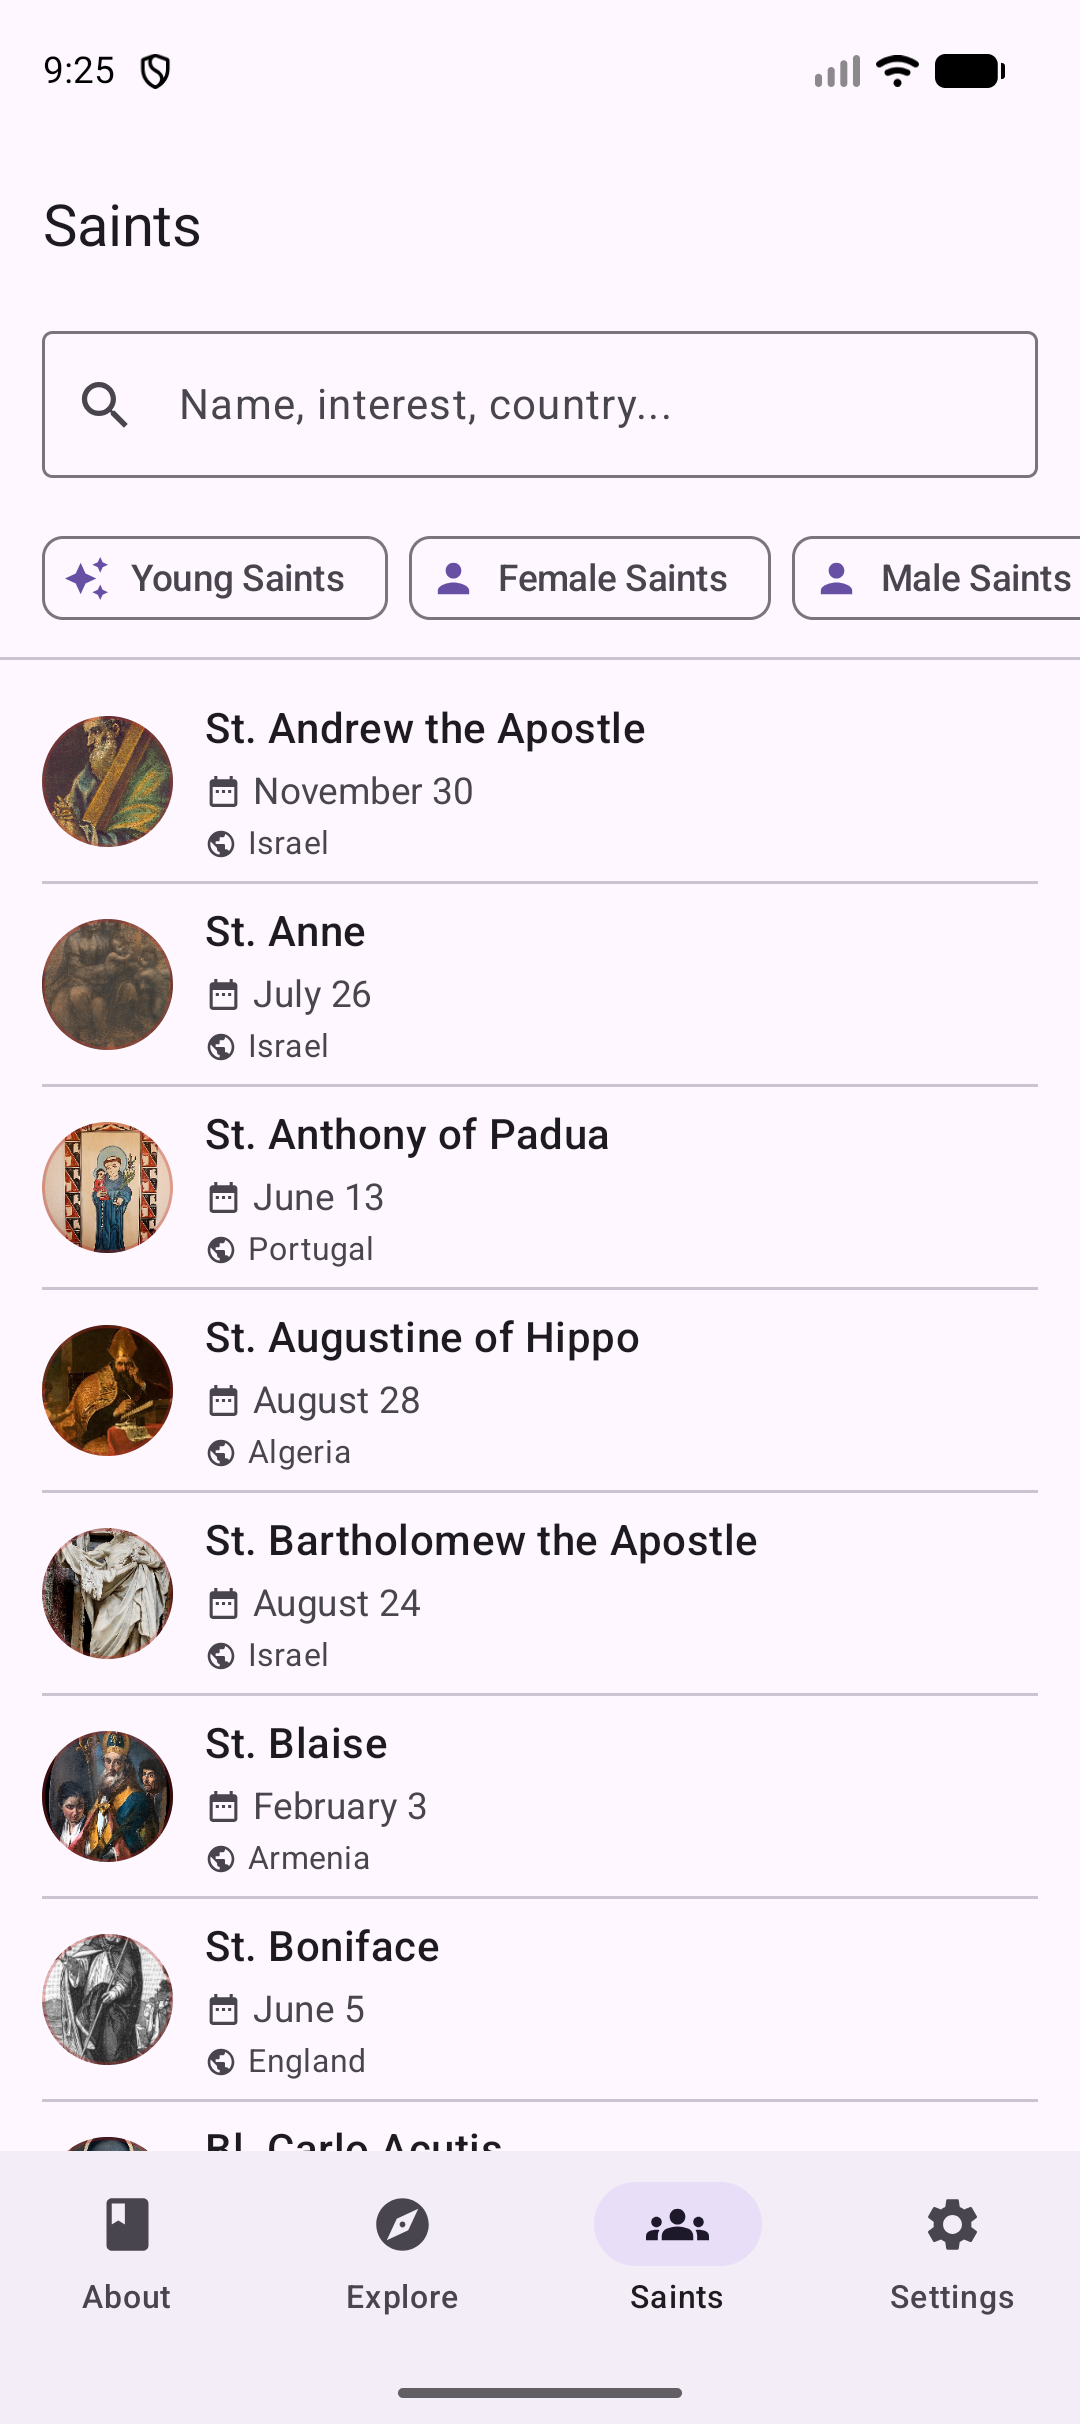
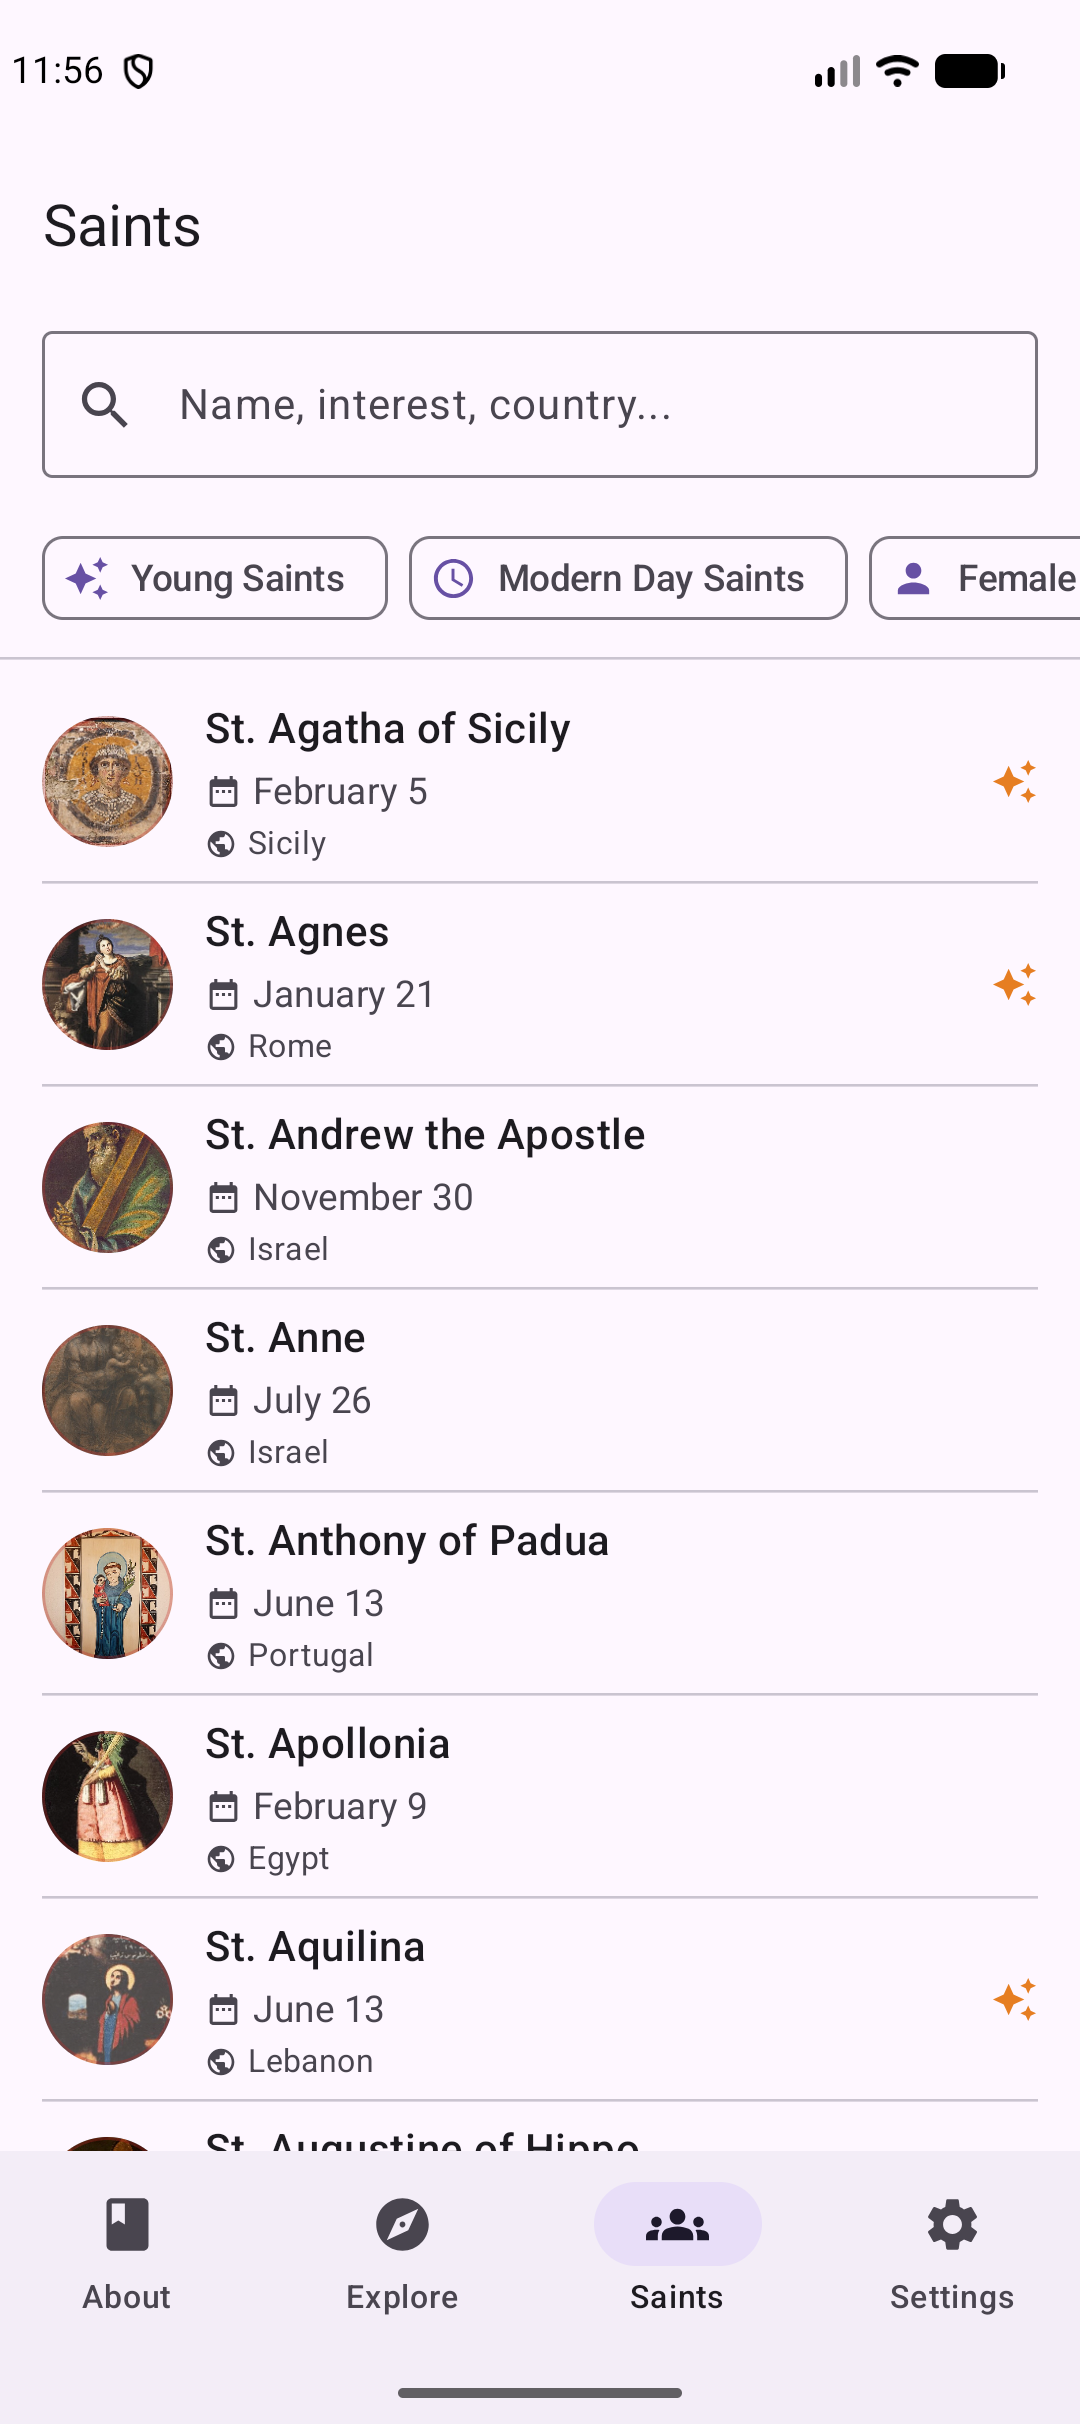
Android v1.0.3: bump version, refresh Play screenshots & release notes
- versionCode 3 → 4, versionName 1.0.2 → 1.0.3 to fix Play Console
  upgrade-path error
- Release notes mention 100+ saints library
- Refresh phone-screenshot-1-saints with current saint list (now
  includes Modern Day Saints chip + new saints)
- Refresh phone-screenshot-2-saint-detail to show St. Carlo Acutis
  (was Bl.) following his canonization on 2025-09-07

diff --git a/docs/android/submission-info.md b/docs/android/submission-info.md
@@ -16,6 +16,7 @@ This pending Android update also makes saint detail images easier to view: tap a
 
 ```
 Pending future Android update — not yet released to production while Android completes Google Play's required closed testing phase.
+• Library expanded to over 100 Catholic saints, all available offline in English and Spanish.
 • Tap saint detail images to view a larger offline preview using bundled artwork.
 • Expanded English and Spanish biographies for recently added saints.
 ```
